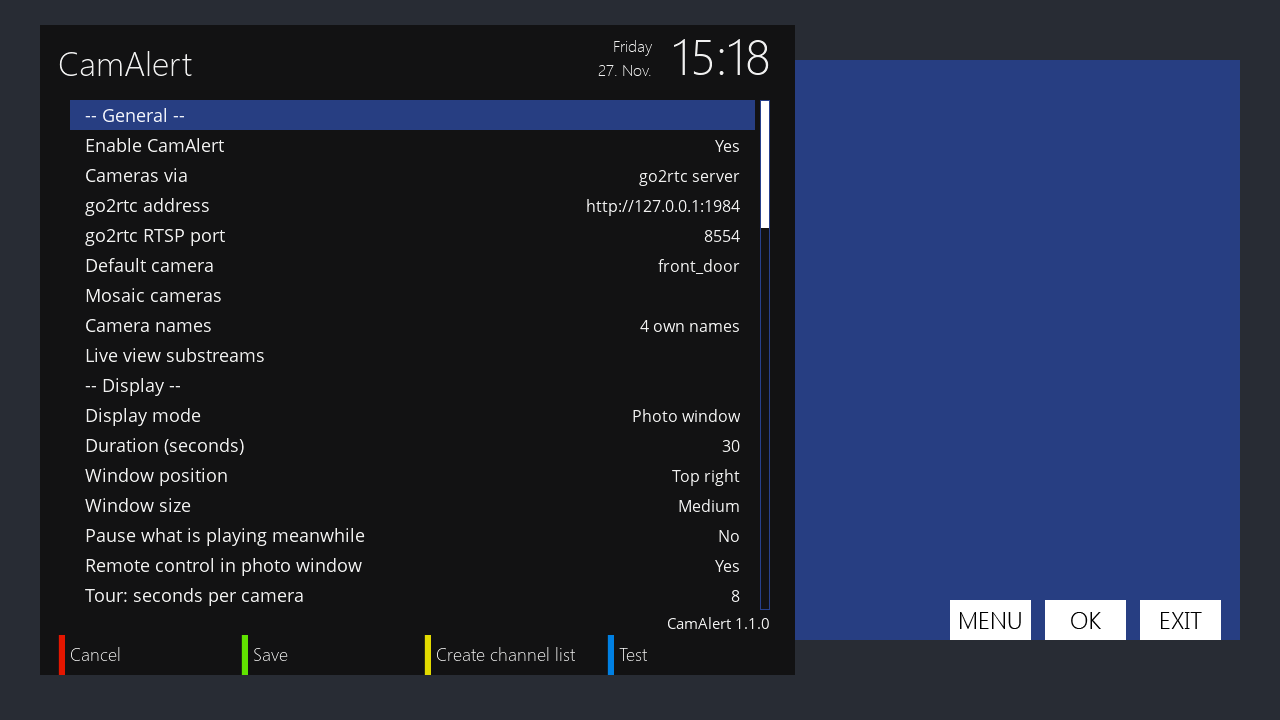
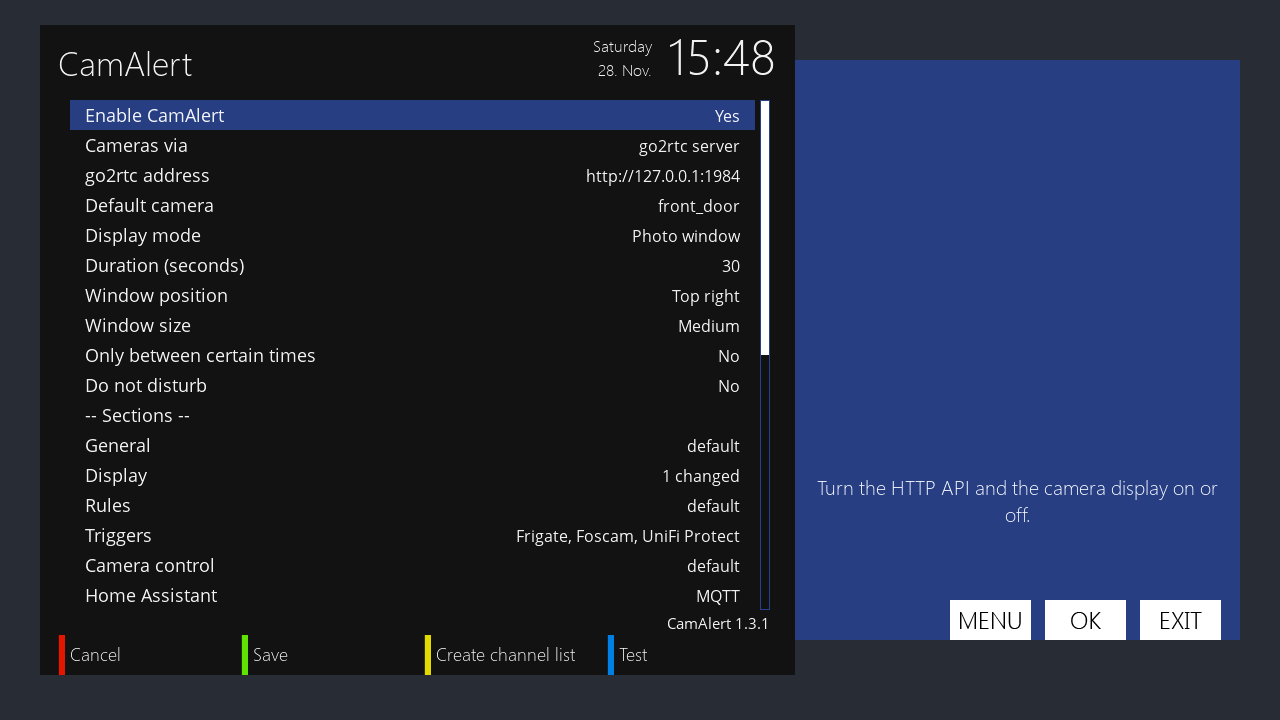
Settings screens: short switch names, a Sections heading, new Enigma2 screenshots (refs #130)
The section line of Triggers did not fit with the full labels: product names (Frigate, Foscam,
UniFi Protect, MQTT) instead, also on Android TV via core.json. A '-- Sections --' heading separates
the basic settings from the section lines. settings-1/2.png retaken on openATV (demo settings,
OSD only, English menu) and the Enigma2 docs describe the new screens.

diff --git a/players/androidtv/api/src/main/kotlin/org/camalert/core/SettingsUi.kt b/players/androidtv/api/src/main/kotlin/org/camalert/core/SettingsUi.kt
@@ -37,7 +37,7 @@ class SettingsUi(private val data: CoreData = CoreData.load()) {
     /** (labels of the switches that are on, number of other non-basic settings that differ from the default). */
     fun summary(section: String, values: Map<String, Any?>): Pair<List<String>, Int> {
         val sw = switches(section)
-        val on = sw.filter { value(values, it.id) == true }.map { it.label ?: it.id }
+        val on = sw.filter { value(values, it.id) == true }.map { data.settingsShortNames[it.id] ?: it.label ?: it.id }
         val ids = sw.map { it.id }.toSet()
         val changed = shown().count {
             it.section == section && it.level != "basic" && it.id !in ids && value(values, it.id) != it.default

diff --git a/players/androidtv/api/src/main/kotlin/org/camalert/core/CoreData.kt b/players/androidtv/api/src/main/kotlin/org/camalert/core/CoreData.kt
@@ -25,6 +25,7 @@ class CoreData(val raw: Map<String, Any?>) {
             Pair(v[0] as String, (v[1] as List<Any?>))
         }
     val settingsHttpsOnly = (raw["settings_https_only"] as List<String>?) ?: emptyList()
+    val settingsShortNames = (raw["settings_short_names"] as Map<String, String>?) ?: emptyMap()
     val keymap = (raw["keymap"] as Map<String, Map<String, List<String>>>)
     val contexts = raw["contexts"] as List<String>
     val keyNames = raw["key_names"] as Map<String, String>

diff --git a/core/camalert_core/settingsui.py b/core/camalert_core/settingsui.py
@@ -43,6 +43,10 @@ DEPENDS = {
     "unifi_seconds": ("unifi_enabled", (True,)), "unifi_interval": ("unifi_enabled", (True,)),
     "unifi_rules": ("unifi_enabled", (True,)), "unifi_camera_rules": ("unifi_enabled", (True,)),
 }
+# Short names of the switches in a section's line on the first screen (product names: not translated), so the
+# line fits; a switch without a short name shows its label.
+SHORT_NAMES = {"frigate_enabled": "Frigate", "foscam_enabled": "Foscam", "unifi_enabled": "UniFi Protect",
+               "mqtt_enabled": "MQTT"}
 # Certificates only matter with https (or direct mode, where a camera can be https): not one parent value.
 HTTPS_ONLY = ("verify_ssl",)
 LEVEL_ORDER = {"basic": 0, "advanced": 1, "expert": 2}
@@ -117,9 +121,9 @@ def switches(section, platform):
 
 
 def section_summary(section, platform, values):
-    """(label msgids of the switches that are on, number of other settings that differ from the default) for the
-    line of a section on the first screen; the player translates and joins them."""
-    on = [s.label for s in switches(section, platform) if _value(values, s.id, platform) is True]
+    """(short names or label msgids of the switches that are on, number of other settings that differ from the
+    default) for the line of a section on the first screen; the player translates the labels and joins them."""
+    on = [SHORT_NAMES.get(s.id, s.label) for s in switches(section, platform) if _value(values, s.id, platform) is True]
     sw = {s.id for s in switches(section, platform)}
     changed = 0
     for s in _shown(platform):

diff --git a/tests/enigma2/test_setup_screen.py b/tests/enigma2/test_setup_screen.py
@@ -71,13 +71,14 @@ class TestSetupScreen(unittest.TestCase):
         sections = ["General", "Display", "Rules", "Triggers", "Camera control", "Home Assistant", "API",
                     "Channel list", "Log and diagnostics"]
         self.assertEqual(labels[-len(sections):], sections)
+        self.assertEqual(labels[-len(sections) - 1], "-- Sections --")
         self.assertLessEqual(len(labels), 20)
         self.assertEqual(s.help_texts[0], "Turn the HTTP API and the camera display on or off.")
         values = self.ca.setup.values
         self.assertEqual(s.summary("log", values(self.c)), "default")
         self.c.foscam_enabled.value = True
         self.c.tour_interval.value = 12
-        self.assertEqual(s.summary("triggers", values(self.c)), "Foscam motion and sound alarms")
+        self.assertEqual(s.summary("triggers", values(self.c)), "Foscam")
         self.assertEqual(s.summary("display", values(self.c)), "1 changed")
 
     def test_section_screen_and_ok(self):

diff --git a/tests/core/test_settingsui.py b/tests/core/test_settingsui.py
@@ -74,7 +74,8 @@ class TestSettingsUi(unittest.TestCase):
     def test_summary(self):
         self.assertEqual(ui.section_summary("triggers", "enigma2", {}), ([], 0))
         on, changed = ui.section_summary("triggers", "enigma2", {"unifi_enabled": True, "unifi_seconds": 60})
-        self.assertEqual((on, changed), (["UniFi Protect events"], 1))
+        self.assertEqual((on, changed), (["UniFi Protect"], 1))
+        self.assertEqual(ui.section_summary("home_assistant", "enigma2", {"mqtt_enabled": True})[0], ["MQTT"])
         self.assertEqual(ui.section_summary("display", "enigma2", {"tour_interval": 12})[1], 1)
 
 

diff --git a/players/enigma2/CamAlert/setup.py b/players/enigma2/CamAlert/setup.py
@@ -176,6 +176,7 @@ class CamAlertSetup(ConfigListScreen, Screen, HelpBase):
         if self.section is None:
             for s in settingsui.main_settings("enigma2", v):
                 rows.append(self.item(s, c))
+            rows.append(("-- %s --" % _("Sections"), ConfigNothing(), ""))
             for section in settingsui.sections("enigma2"):
                 el = ConfigSelection(choices=[("x", self.summary(section, v))])
                 self.section_rows[id(el)] = section

diff --git a/tools/export_contract.py b/tools/export_contract.py
@@ -527,6 +527,7 @@ def runtime():
         "levels": list(schema.LEVELS),
         "settings_depends": {k: [p, list(v)] for k, (p, v) in settingsui.DEPENDS.items()},  # #130
         "settings_https_only": list(settingsui.HTTPS_ONLY),
+        "settings_short_names": dict(settingsui.SHORT_NAMES),
         "settings": [_setting(s) for s in androidtv_settings()],
         "not_on_androidtv": NOT_ON_ANDROIDTV,
         "androidtv_defaults": schema.DEFAULT_REASONS[PLATFORM],

diff --git a/docs/players/enigma2.md b/docs/players/enigma2.md
@@ -41,12 +41,16 @@ The feed only holds the **latest** release. To go back to an older version, down
 ## Settings
 
 **Menu › Plugins › CamAlert**. The screen uses your skin's own settings layout, with a help text for the selected
-row and section headings: General, Display, Rules, Triggers, Camera control, Home Assistant / MQTT, API, Channel list,
-Log. Which rows you see follows *Menu › Setup › System › Settings level* (simple / intermediate / expert); MENU ›
-*Show all settings* shows everything. Every setting is listed in [settings](../user/settings.md).
+row. The first screen holds the basic settings and, under *Sections*, one line per section (General, Display, Rules,
+Triggers, Camera control, Home Assistant, API, Channel list, Log) that says what is on there or how many settings
+differ from the default (#130). **OK** opens a section; there **GREEN** goes back and **RED** undoes the changes of
+that section, while **Save** on the first screen keeps everything. Fields that do not apply are hidden: Frigate,
+Foscam, UniFi Protect and MQTT show their settings once they are turned on. Expert settings show after **BLUE**
+(*More settings*) in a section or via MENU; the receiver keeps that choice. Every setting is listed in
+[settings](../user/settings.md).
 
-![Settings: general and display](../images/enigma2/settings-1.png)
-![Settings: display, rules and triggers](../images/enigma2/settings-2.png)
+![Settings: the basic settings and one line per section](../images/enigma2/settings-1.png)
+![Settings: the Triggers section](../images/enigma2/settings-2.png)
 
 | Key | In the settings |
 |---|---|

diff --git a/docs/dev/screenshots.md b/docs/dev/screenshots.md
@@ -6,7 +6,7 @@ Screenshots in the docs show **only CamAlert's own screens**, never a camera pic
 
 | File | What |
 |---|---|
-| `images/enigma2/settings-1.png`, `settings-2.png` | settings screen (General/Display, Display/Rules/Triggers) |
+| `images/enigma2/settings-1.png`, `settings-2.png` | settings: the first screen (basic settings and the sections, #130) and the Triggers section |
 | `images/enigma2/photo-window.png` | photo window with a label (*Person · Front door*) and the key hint |
 | `images/enigma2/notification.png` | notification mode: small window with label and priority |
 | `images/enigma2/multi-camera-window.png` | multi-camera window with one camera *not reachable* |

diff --git a/docs/user/guide.md b/docs/user/guide.md
@@ -72,7 +72,7 @@ sees the wizard.
 Open **Menu › Plugins › CamAlert** (Kodi: **Add-ons › My add-ons › Services › CamAlert › Configure**; the settings
 have the same names, Enigma2-only steps are marked):
 
-![CamAlert settings: general and display](../images/enigma2/settings-1.png)
+![CamAlert settings: the basic settings and one line per section](../images/enigma2/settings-1.png)
 
 
 1. **go2rtc address**: `http://<go2rtc-address>:1984` (for example `http://192.168.1.10:1984`). A new install has no
